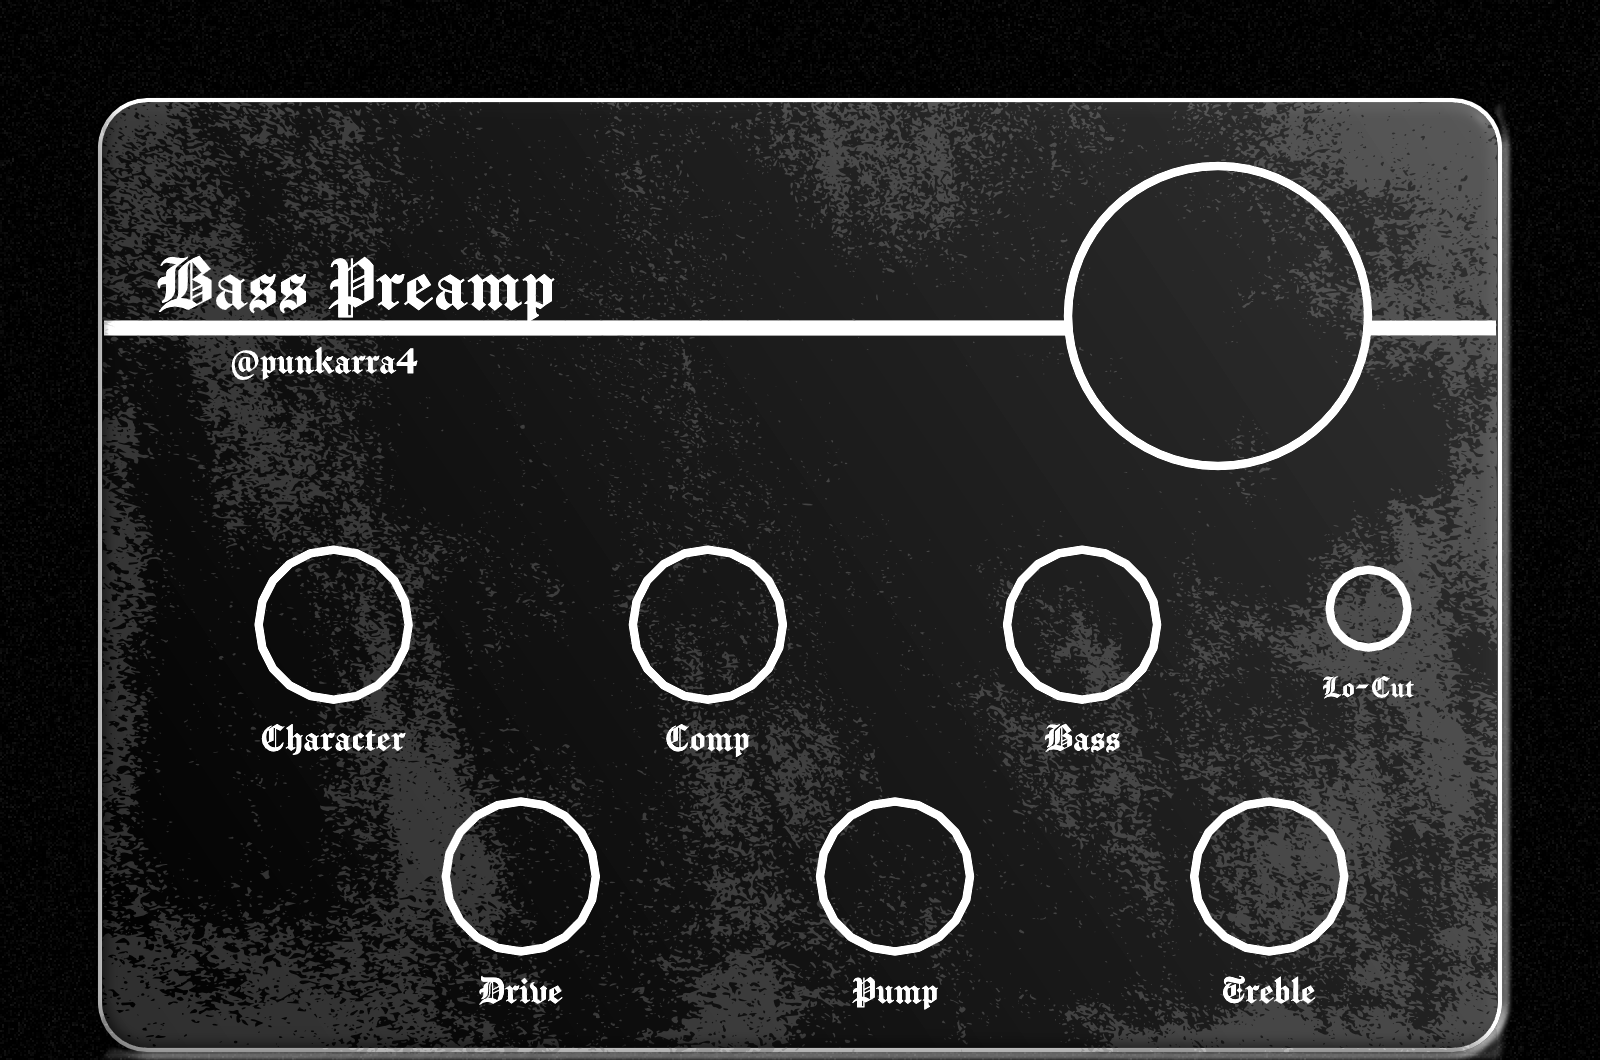
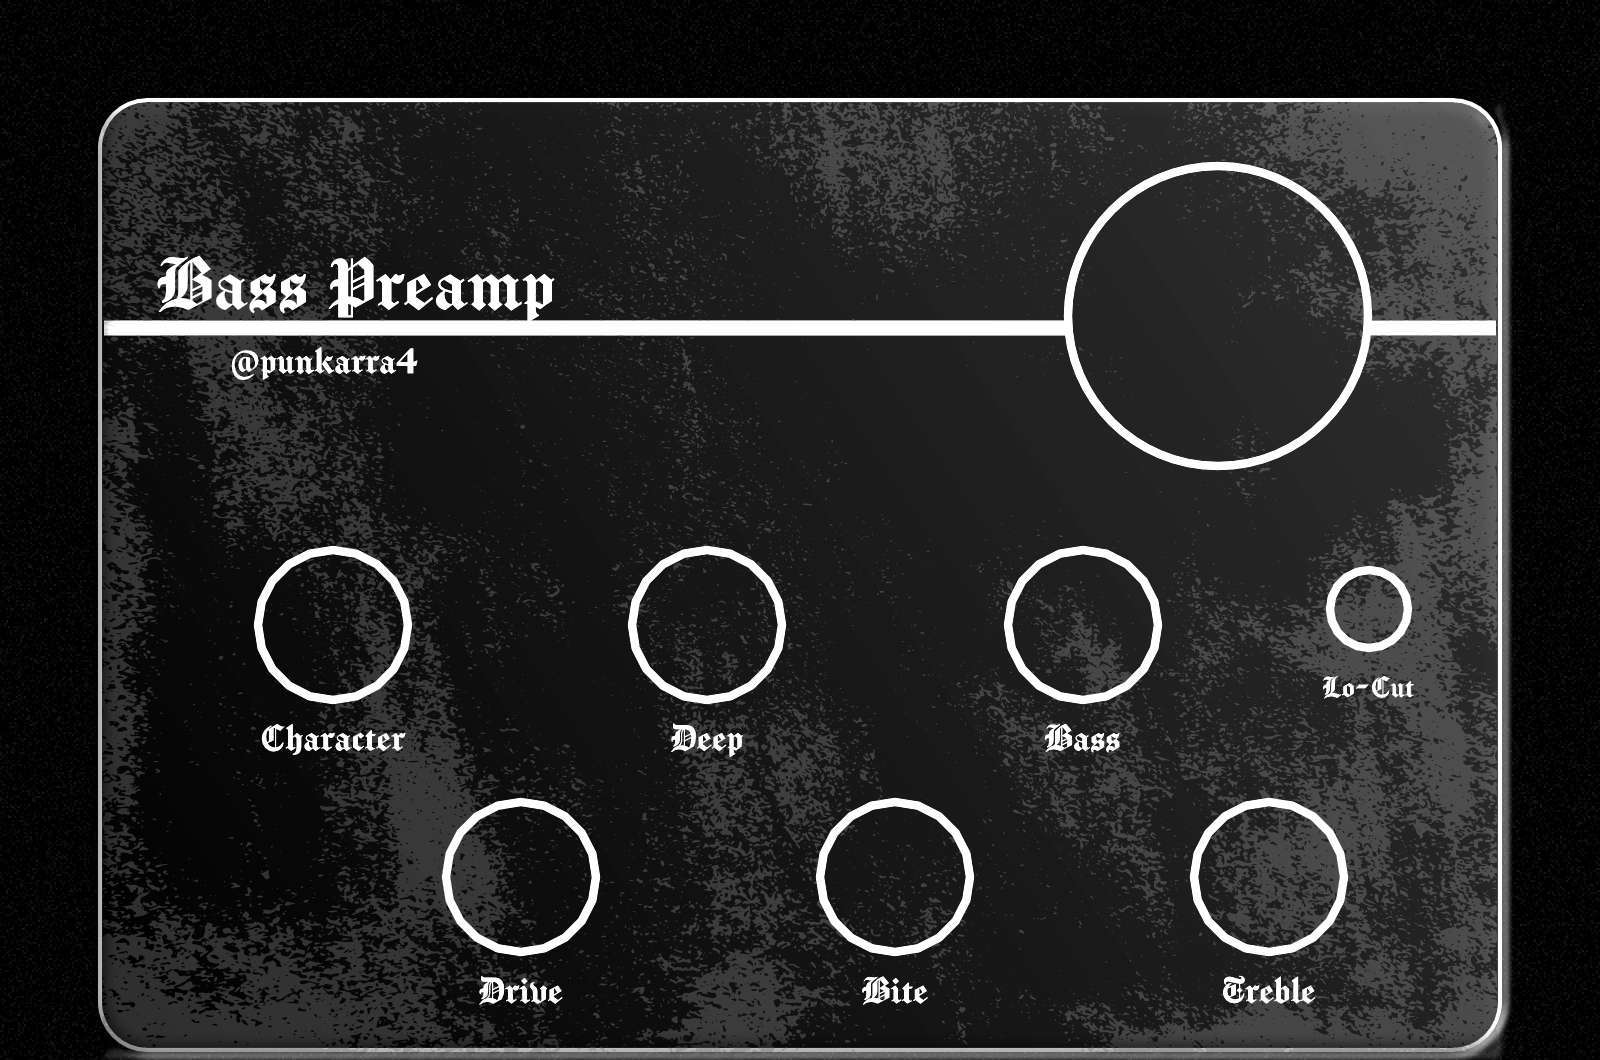
changing parameter names

Changed region(s): [[0.5312, 0.9028, 0.5938, 0.9651], [0.4062, 0.6849, 0.4688, 0.716]]

diff --git a/source/PluginProcessor.cpp b/source/PluginProcessor.cpp
@@ -159,21 +159,21 @@ juce::AudioProcessorValueTreeState::ParameterLayout BassPreampProcessor::createP
                                                                       )
                           );
     
-    // Comp: Adjusts the input-gain and mix of a compressor running in series
+    // Low Comp / Deep: Compressor affecting frequencies below 600 Hz
     preampGroup->addChild(std::make_unique<juce::AudioParameterFloat>(
-                                                                      Parameters::compId,
-                                                                      Parameters::compName,
-                                                                      juce::NormalisableRange<float>(Parameters::compMin, Parameters::compMax, 0.01f),
-                                                                      Parameters::compDefault
+                                                                      Parameters::lowCompId,
+                                                                      Parameters::lowCompName,
+                                                                      juce::NormalisableRange<float>(Parameters::lowCompMin, Parameters::lowCompMax, 0.01f),
+                                                                      Parameters::lowCompDefault
                                                                       )
                           );
     
-    // Pump: Adjusts the input-gain and mix of a compressor running in parallel
+    // Hi Comp / Bite: Compressor affecting frequencies above 600 Hz
     preampGroup->addChild(std::make_unique<juce::AudioParameterFloat>(
-                                                                      Parameters::pumpId,
-                                                                      Parameters::pumpName,
-                                                                      juce::NormalisableRange<float>(Parameters::pumpMin, Parameters::pumpMax, 0.01f),
-                                                                      Parameters::pumpDefault
+                                                                      Parameters::hiCompId,
+                                                                      Parameters::hiCompName,
+                                                                      juce::NormalisableRange<float>(Parameters::hiCompMin, Parameters::hiCompMax, 0.01f),
+                                                                      Parameters::hiCompDefault
                                                                       )
                           );
     
@@ -223,9 +223,7 @@ void BassPreampProcessor::updateParameters()
     
     outGain = juce::Decibels::decibelsToGain( apvts.getRawParameterValue(Parameters::outId)->load() );
     
-    // --- 2. Preamp
-    // TODO: Adjusts all mappings and variables affected
-    
+    // --- 2. Pream
     // Character - Needs an eq-curve
     const auto characterValue = apvts.getRawParameterValue(Parameters::characterId)->load();
     const auto charLowGain = juce::jmap(characterValue, 1.f, 2.f);
@@ -244,15 +242,15 @@ void BassPreampProcessor::updateParameters()
     const auto driveValue = apvts.getRawParameterValue(Parameters::driveId)->load();
     saturator.setDrive( juce::jmap(driveValue, 0.5f, 2.0f) );
     
-    // Comp
-    const auto compValue = apvts.getRawParameterValue(Parameters::compId)->load();
-    seriesCompressor.updateThres( juce::jmap(compValue, -6.f, -20.f) );
-    seriesCompressor.updateMakeUp( juce::jmap(compValue, 0.f, 15.f) );
+    // Low Comp - TODO: ADJUST SETTINGS
+    const auto lowCompValue = apvts.getRawParameterValue(Parameters::lowCompId)->load();
+    lowCompressor.updateThres( juce::jmap(lowCompValue, -6.f, -20.f) );
+    lowCompressor.updateMakeUp( juce::jmap(lowCompValue, 0.f, 15.f) );
     
-    // Pump
-    const auto pumpValue = apvts.getRawParameterValue(Parameters::pumpId)->load();
-    parallelCompressor.updateMix( juce::jmap(pumpValue, 0.0f, 0.5f) );
-    parallelCompressor.updateMakeUp( juce::jmap(pumpValue, 0.0f, 12.f) );
+    // Hi Comp - TODO: ADJUST SETTINGS
+    const auto hiCompValue = apvts.getRawParameterValue(Parameters::hiCompId)->load();
+    highCompressor.updateMix( juce::jmap(hiCompValue, 0.0f, 0.5f) );
+    highCompressor.updateMakeUp( juce::jmap(hiCompValue, 0.0f, 12.f) );
     
     // Bass - Treble - LoCut
     const auto bassValue = apvts.getRawParameterValue(Parameters::bassId)->load();
@@ -293,19 +291,19 @@ void BassPreampProcessor::prepareToPlay (double sampleRate, int samplesPerBlock)
     postEq.prepare(spec);
     postEq.reset();
     
-    seriesCompressor.prepare(spec);
-    seriesCompressor.updateKnee(12.0f);
-    seriesCompressor.updateRatio(6.0f);
-    seriesCompressor.updateAttack(10.0f);
-    seriesCompressor.updateRelease(30.0f);
-    seriesCompressor.updateFeedForward(false);
+    lowCompressor.prepare(spec);
+    lowCompressor.updateKnee(12.0f);
+    lowCompressor.updateRatio(6.0f);
+    lowCompressor.updateAttack(10.0f);
+    lowCompressor.updateRelease(30.0f);
+    lowCompressor.updateFeedForward(false);
     
-    parallelCompressor.prepare(spec);
-    parallelCompressor.updateRatio(12.f);
-    parallelCompressor.updateThres(-20.f);
-    parallelCompressor.updateKnee(15.f);
-    parallelCompressor.updateAttack(30.f);
-    parallelCompressor.updateRelease(60.f);
+    highCompressor.prepare(spec);
+    highCompressor.updateRatio(12.f);
+    highCompressor.updateThres(-20.f);
+    highCompressor.updateKnee(15.f);
+    highCompressor.updateAttack(30.f);
+    highCompressor.updateRelease(60.f);
     
     saturator.setOutGain(1.7f);
     saturator.setHarmonicBalance(0.8f);
@@ -380,10 +378,10 @@ void BassPreampProcessor::processBlock (juce::AudioBuffer<float>& buffer,
     saturator.processBuffer(buffer);
     
     // 2.3. Preamp - Comp
-    seriesCompressor.process(buffer);
+    lowCompressor.process(buffer);
     
     // 2.4. Preamp - Pump
-    parallelCompressor.process(buffer);
+    highCompressor.process(buffer);
     
     // 2.5. Preamp - Output EQ
     postEq.process( juce::dsp::ProcessContextReplacing<float>(audioBlock) );

diff --git a/source/PluginEditor.cpp b/source/PluginEditor.cpp
@@ -104,23 +104,23 @@ PluginEditor::PluginEditor (BassPreampProcessor& p)
     
     driveAttachment = std::make_unique<juce::AudioProcessorValueTreeState::SliderAttachment>(processorRef.apvts, Parameters::driveId, driveSlider);
 
-    // Comp knob
-    compSlider.setSliderStyle(juce::Slider::RotaryHorizontalVerticalDrag);
-    compSlider.setTextBoxStyle(juce::Slider::NoTextBox, false, 0, 0);
-    compSlider.setRange(Parameters::compMin, Parameters::compMax, 0.1);
-    compSlider.setValue(Parameters::compDefault);
-    addAndMakeVisible(compSlider);
+    // Low Comp / Deep knob
+    lowCompSlider.setSliderStyle(juce::Slider::RotaryHorizontalVerticalDrag);
+    lowCompSlider.setTextBoxStyle(juce::Slider::NoTextBox, false, 0, 0);
+    lowCompSlider.setRange(Parameters::lowCompMin, Parameters::lowCompMax, 0.1);
+    lowCompSlider.setValue(Parameters::lowCompDefault);
+    addAndMakeVisible(lowCompSlider);
     
-    compAttachment = std::make_unique<juce::AudioProcessorValueTreeState::SliderAttachment>(processorRef.apvts, Parameters::compId, compSlider);
+    lowCompAttachment = std::make_unique<juce::AudioProcessorValueTreeState::SliderAttachment>(processorRef.apvts, Parameters::lowCompId, lowCompSlider);
     
-    // Pump knob
-    pumpSlider.setSliderStyle(juce::Slider::RotaryHorizontalVerticalDrag);
-    pumpSlider.setTextBoxStyle(juce::Slider::NoTextBox, false, 0, 0);
-    pumpSlider.setRange(Parameters::pumpMin, Parameters::pumpMax, 0.01);
-    pumpSlider.setValue(Parameters::pumpDefault);
-    addAndMakeVisible(pumpSlider);
+    // Hi Comp / Bite knob
+    hiCompSlider.setSliderStyle(juce::Slider::RotaryHorizontalVerticalDrag);
+    hiCompSlider.setTextBoxStyle(juce::Slider::NoTextBox, false, 0, 0);
+    hiCompSlider.setRange(Parameters::hiCompMin, Parameters::hiCompMax, 0.01);
+    hiCompSlider.setValue(Parameters::hiCompDefault);
+    addAndMakeVisible(hiCompSlider);
     
-    pumpAttachment = std::make_unique<juce::AudioProcessorValueTreeState::SliderAttachment>(processorRef.apvts, Parameters::pumpId, pumpSlider);
+    hiCompAttachment = std::make_unique<juce::AudioProcessorValueTreeState::SliderAttachment>(processorRef.apvts, Parameters::hiCompId, hiCompSlider);
 
     // Bass knob
     bassSlider.setSliderStyle(juce::Slider::RotaryHorizontalVerticalDrag);
@@ -211,8 +211,8 @@ void PluginEditor::resized()
     std::vector<KnobLayout> knobs = {
         { &characterSlider, 129 + 38, 275 + 38, 82 },
         { &driveSlider, 223 + 38, 401 + 38, 82 },
-        { &compSlider, 316 + 38, 275 + 38, 82 },
-        { &pumpSlider, 410 + 38, 401 + 38, 82 },
+        { &lowCompSlider, 316 + 38, 275 + 38, 82 },
+        { &hiCompSlider, 410 + 38, 401 + 38, 82 },
         { &bassSlider, 504 + 38, 275 + 38, 82 },
         { &trebleSlider, 597 + 38, 401 + 38, 82 },
         { &locutSlider, 665 + 20, 285 + 20, 46 }

diff --git a/source/PluginProcessor.h b/source/PluginProcessor.h
@@ -51,18 +51,18 @@ namespace Parameters
     constexpr auto driveMax = 1.0f;
 
     // Comp: Adjusts the input-gain and mix of a compressor running in series
-    constexpr auto compId = "comp";
-    constexpr auto compName = "Comp";
-    constexpr auto compDefault = 0.5f;
-    constexpr auto compMin = 0.0f;
-    constexpr auto compMax = 1.0f;
+    constexpr auto lowCompId = "lowcomp";
+    constexpr auto lowCompName = "lowComp";
+    constexpr auto lowCompDefault = 0.5f;
+    constexpr auto lowCompMin = 0.0f;
+    constexpr auto lowCompMax = 1.0f;
 
     // Pump: Adjusts the input-gain and mix of a compressor running in parallel
-    constexpr auto pumpId = "pump";
-    constexpr auto pumpName = "Pump";
-    constexpr auto pumpDefault = 0.5f;
-    constexpr auto pumpMin = 0.0f;
-    constexpr auto pumpMax = 1.0f;
+    constexpr auto hiCompId = "hicomp";
+    constexpr auto hiCompName = "hiComp";
+    constexpr auto hiCompDefault = 0.5f;
+    constexpr auto hiCompMin = 0.0f;
+    constexpr auto hiCompMax = 1.0f;
 
     // Bass: Low-shelf filter at the end of the chain
     constexpr auto bassId = "bass";
@@ -143,7 +143,7 @@ private:
     
     // --- PREAMP PROCESSORS ---
     punk_dsp::TubeModel saturator;
-    punk_dsp::Compressor seriesCompressor, parallelCompressor;
+    punk_dsp::Compressor lowCompressor, highCompressor;
     
     juce::dsp::ProcessorChain<FilterBand, FilterBand, FilterBand, FilterBand, FilterBand> characterEq;
     juce::dsp::ProcessorChain<FilterBand, FilterBand, FilterBand> postEq;

diff --git a/source/PluginEditor.h b/source/PluginEditor.h
@@ -35,11 +35,11 @@ private:
     
     // Sliders - Rotary knobs
     juce::Slider inputSlider, gateSlider, mixSlider, outputSlider;
-    juce::Slider characterSlider, driveSlider, compSlider, pumpSlider, bassSlider, trebleSlider, locutSlider;
+    juce::Slider characterSlider, driveSlider, lowCompSlider, hiCompSlider, bassSlider, trebleSlider, locutSlider;
     
     // Attachments for linking sliders-parameters
     std::unique_ptr<juce::AudioProcessorValueTreeState::SliderAttachment> inputAttachment, gateAttachment, mixAttachment, outputAttachment;
-    std::unique_ptr<juce::AudioProcessorValueTreeState::SliderAttachment> characterAttachment, driveAttachment, compAttachment, pumpAttachment, bassAttachment, trebleAttachment, locutAttachment;
+    std::unique_ptr<juce::AudioProcessorValueTreeState::SliderAttachment> characterAttachment, driveAttachment, lowCompAttachment, hiCompAttachment, bassAttachment, trebleAttachment, locutAttachment;
         
     JUCE_DECLARE_NON_COPYABLE_WITH_LEAK_DETECTOR (PluginEditor)
 };
